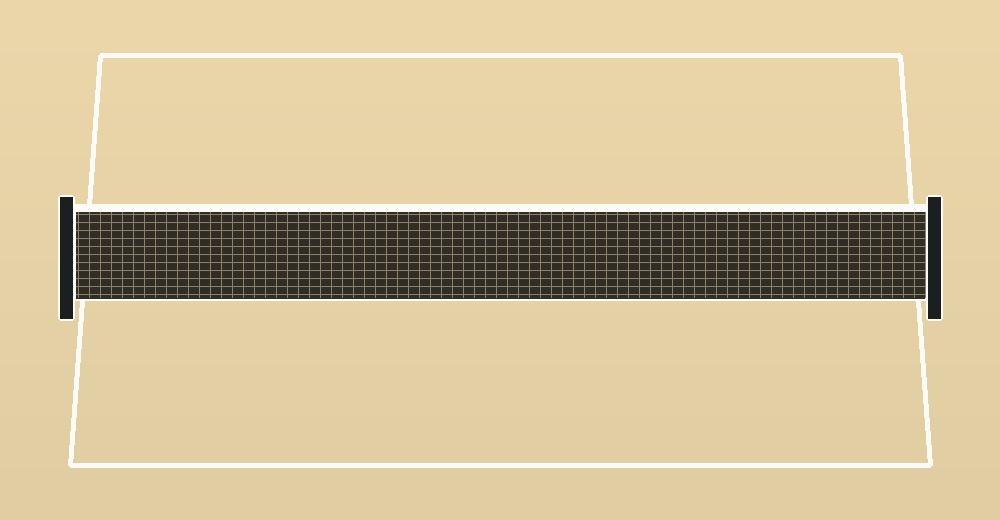
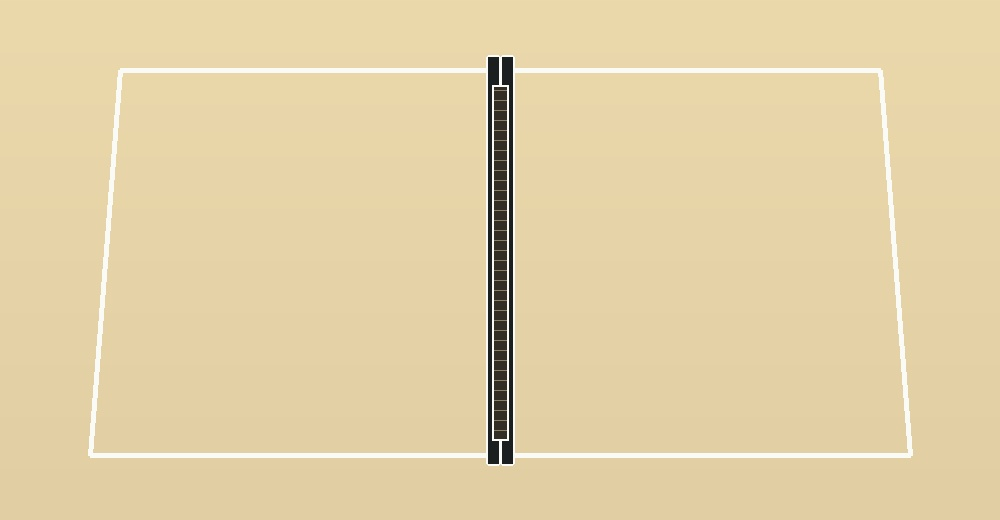
Add files via upload

Changed region(s): [[0.031, 0.0923, 0.961, 0.9231]]

diff --git a/src/App.jsx b/src/App.jsx
@@ -13,21 +13,21 @@ const uid=()=>`${Date.now()}-${Math.random().toString(36).slice(2)}`;
 const clone=o=>JSON.parse(JSON.stringify(o));
 function useAsset(src){const[i,setI]=useState(null);useEffect(()=>{const x=new Image();x.src=src;x.onload=()=>setI(x)},[src]);return i}
 const starter=()=>[
- {id:uid(),type:"player",team:"A",x:330,y:390,label:"1",name:"Jogador 1",sprite:"back",facing:"up",visible:true},
- {id:uid(),type:"player",team:"A",x:680,y:390,label:"2",name:"Jogador 2",sprite:"back",facing:"up",visible:true},
- {id:uid(),type:"player",team:"B",x:330,y:155,label:"3",name:"Jogador 3",sprite:"front",facing:"down",visible:true},
- {id:uid(),type:"player",team:"B",x:680,y:155,label:"4",name:"Jogador 4",sprite:"front",facing:"down",visible:true},
- {id:uid(),type:"coach",x:115,y:330,label:"P",name:"Professor",sprite:"coach",facing:"right",visible:true}
+ {id:uid(),type:"player",team:"A",x:300,y:360,label:"1",name:"Jogador 1",sprite:"back",facing:"right",visible:true},
+ {id:uid(),type:"player",team:"A",x:700,y:360,label:"2",name:"Jogador 2",sprite:"back",facing:"left",visible:true},
+ {id:uid(),type:"player",team:"B",x:300,y:155,label:"3",name:"Jogador 3",sprite:"front",facing:"right",visible:true},
+ {id:uid(),type:"player",team:"B",x:700,y:155,label:"4",name:"Jogador 4",sprite:"front",facing:"left",visible:true},
+ {id:uid(),type:"coach",x:90,y:305,label:"P",name:"Professor",sprite:"coach",facing:"right",visible:true}
 ];
 
 export default function App(){
  const stageRef=useRef(), boxRef=useRef();
  const court=useAsset("/assets/premium-court.jpg"),front=useAsset("/assets/player_front.png"),back=useAsset("/assets/player_back.png"),coachImg=useAsset("/assets/coach.png");
- const[items,setItems]=useState(()=>{try{return JSON.parse(localStorage.getItem("jb115-items"))||starter()}catch{return starter()}});
+ const[items,setItems]=useState(()=>{try{return JSON.parse(localStorage.getItem("jb116-items"))||starter()}catch{return starter()}});
  const[selected,setSelected]=useState(null),[teamTab,setTeamTab]=useState("A"),[mode,setMode]=useState("select"),[draft,setDraft]=useState(null);
  const[history,setHistory]=useState([]),[future,setFuture]=useState([]),[scale,setScale]=useState(1);
  const[title,setTitle]=useState("Saque + subida"),[category,setCategory]=useState("Ofensiva"),[level,setLevel]=useState("Intermediário"),[desc,setDesc]=useState("Saque profundo no meio + subida para a rede.");
- const[scenes,setScenes]=useState(()=>{try{return JSON.parse(localStorage.getItem("jb115-scenes"))||[]}catch{return[]}});
+ const[scenes,setScenes]=useState(()=>{try{return JSON.parse(localStorage.getItem("jb116-scenes"))||[]}catch{return[]}});
  const[scene,setScene]=useState(0),[showPath,setShowPath]=useState(true),[showZones,setShowZones]=useState(true),[showNums,setShowNums]=useState(true),[showBrand,setShowBrand]=useState(true);
  const[playing,setPlaying]=useState(false),[progress,setProgress]=useState(0),[courtMode,setCourtMode]=useState("full");
  const[arrowColor,setArrowColor]=useState("#f4f72b");
@@ -39,12 +39,12 @@ export default function App(){
  const patch=(id,p)=>setItems(v=>v.map(x=>x.id===id?{...x,...p}:x));
  const undo=()=>{if(!history.length)return;setFuture(f=>[clone(items),...f]);setItems(history.at(-1));setHistory(h=>h.slice(0,-1))};
  const redo=()=>{if(!future.length)return;setHistory(h=>[...h,clone(items)]);setItems(future[0]);setFuture(f=>f.slice(1))};
- const addPlayer=t=>{let n=items.filter(x=>x.type==="player").length+1;commit([...items,{id:uid(),type:"player",team:t,x:450,y:t==="A"?445:230,label:String(n),name:`Jogador ${n}`,sprite:t==="A"?"back":"front",facing:t==="A"?"up":"down",visible:true}])};
+ const addPlayer=t=>{let n=items.filter(x=>x.type==="player").length+1;commit([...items,{id:uid(),type:"player",team:t,x:450,y:t==="A"?445:230,label:String(n),name:`Jogador ${n}`,sprite:t==="A"?"back":"front",facing:t==="A"?"right":"left",visible:true}])};
  const addCoach=()=>commit([...items,{id:uid(),type:"coach",x:115,y:410,label:"P",name:"Professor",sprite:"coach",rotation:0,visible:true}]);
  const addSimple=t=>commit([...items,{id:uid(),type:t,x:450,y:350,name:t==="ball"?"Bola":t==="cone"?"Cone":"Texto",text:t==="text"?"Observação":"",visible:true}]);
  const del=()=>{if(sel){commit(items.filter(x=>x.id!==sel.id));setSelected(null)}};
  const duplicate=()=>{if(!sel)return;const c={...clone(sel),id:uid(),x:(sel.x||0)+22,y:(sel.y||0)+22};commit([...items,c])};
- const save=()=>{localStorage.setItem("jb115-items",JSON.stringify(items));localStorage.setItem("jb115-scenes",JSON.stringify(scenes));localStorage.setItem("jb115-meta",JSON.stringify({title,category,level,desc}))};
+ const save=()=>{localStorage.setItem("jb116-items",JSON.stringify(items));localStorage.setItem("jb116-scenes",JSON.stringify(scenes));localStorage.setItem("jb116-meta",JSON.stringify({title,category,level,desc}))};
  const exportPNG=()=>{const a=document.createElement("a");a.href=stageRef.current.toDataURL({pixelRatio:2});a.download=title.replace(/\W+/g,"_")+".png";a.click()};
  const point=()=>{const p=stageRef.current?.getPointerPosition();return p?{x:p.x/scale,y:p.y/scale}:null};
  const down=()=>{if(!["arrow","zone"].includes(mode))return;const p=point();if(!p)return;if(mode==="arrow")setDraft({type:"arrow",points:[p.x,p.y,p.x,p.y],color:arrowColor});else setDraft({type:"zone",x:p.x,y:p.y,w:0,h:0})};
@@ -99,7 +99,7 @@ export default function App(){
     </div>
     <Tool icon={<Square/>} text="Área / Zona" onClick={()=>setMode("zone")}/><Tool icon={<Type/>} text="Texto" onClick={()=>addSimple("text")}/>
     <h3>FERRAMENTAS</h3>
-    <Tool active={mode==="select"} icon={<MousePointer2/>} text="Selecionar" onClick={()=>setMode("select")}/><Tool icon={<Move/>} text="Mover" onClick={()=>setMode("select")}/><Tool icon={<RotateCw/>} text="Virar corpo" onClick={()=>{if(sel&&(sel.type==="player"||sel.type==="coach")){const order=["down","right","up","left"];const n=(order.indexOf(sel.facing||"down")+1)%order.length;patch(sel.id,{facing:order[n]})}}}/><Tool icon={<Trash2/>} text="Excluir" onClick={del}/><Tool icon={<Undo2/>} text="Desfazer" onClick={undo}/><Tool icon={<Redo2/>} text="Refazer" onClick={redo}/>
+    <Tool active={mode==="select"} icon={<MousePointer2/>} text="Selecionar" onClick={()=>setMode("select")}/><Tool icon={<Move/>} text="Mover" onClick={()=>setMode("select")}/><Tool icon={<RotateCw/>} text="Orientar corpo" onClick={()=>{if(sel&&(sel.type==="player"||sel.type==="coach")){const order=["down","right","up","left"];const n=(order.indexOf(sel.facing||"down")+1)%order.length;patch(sel.id,{facing:order[n]})}}}/><Tool icon={<Trash2/>} text="Excluir" onClick={del}/><Tool icon={<Undo2/>} text="Desfazer" onClick={undo}/><Tool icon={<Redo2/>} text="Refazer" onClick={redo}/>
    </aside>
 
    <main className="center">
